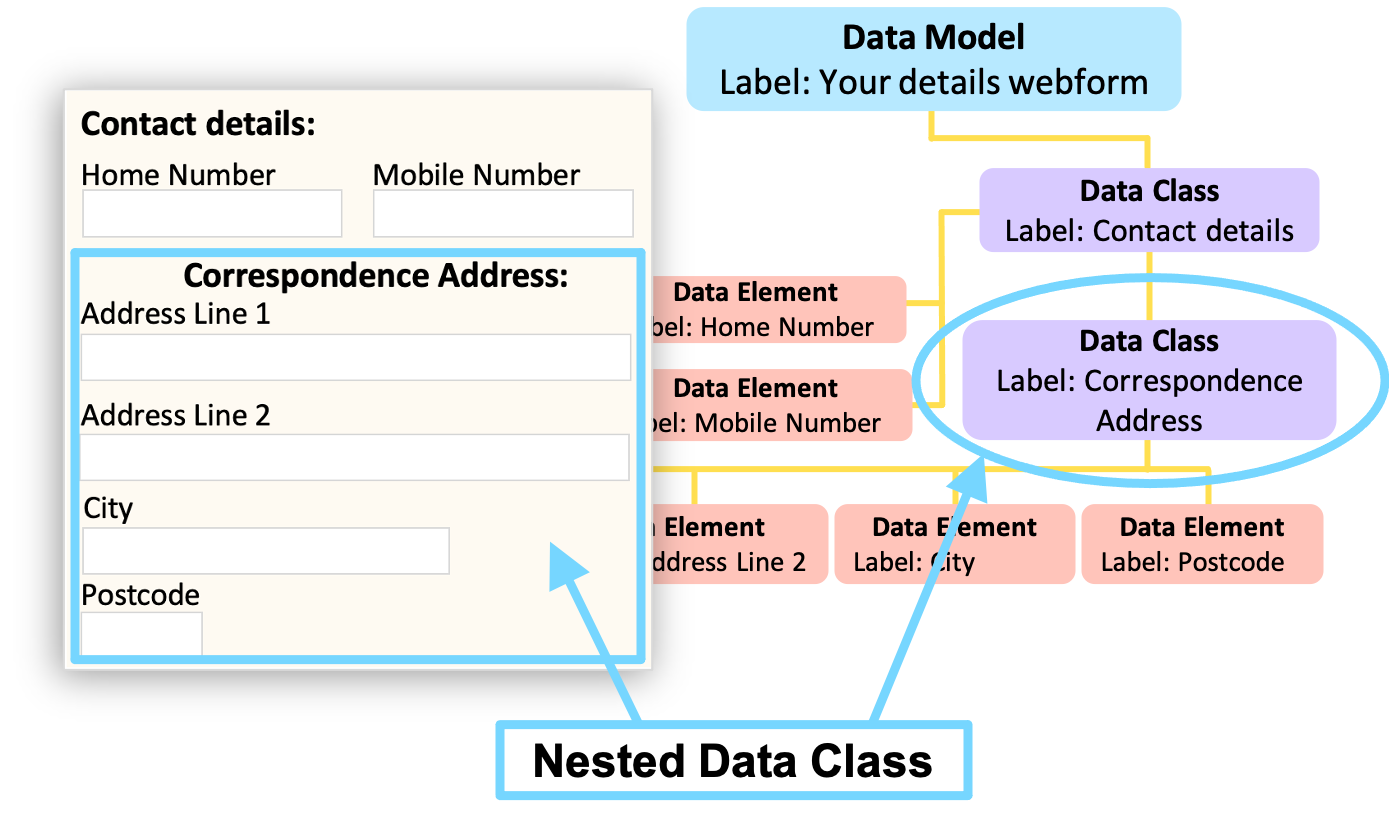
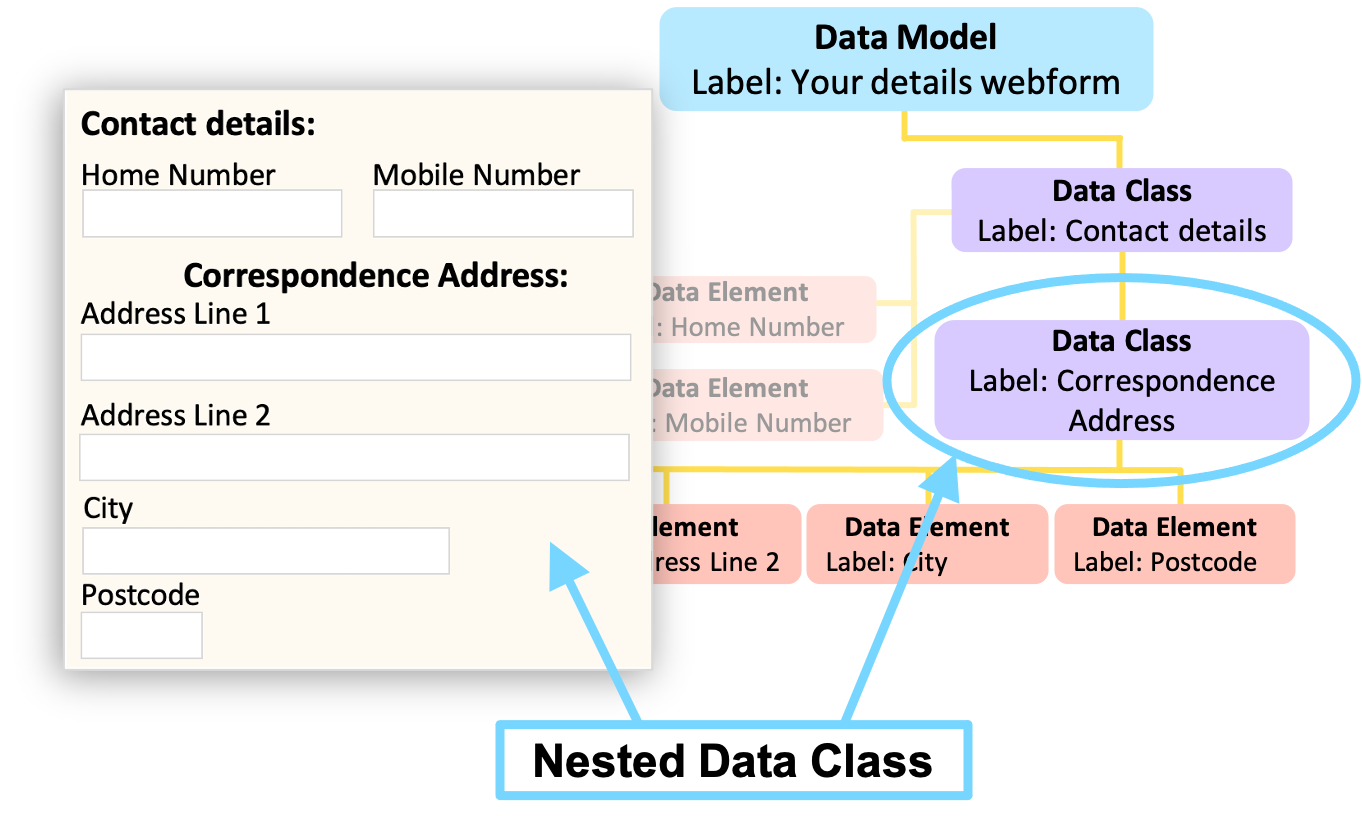
Updated Data Class Glossary page

diff --git a/docs/glossary/data-class/data-class.md b/docs/glossary/data-class/data-class.md
@@ -9,9 +9,9 @@ A **Data Class** is a collection of data, also known as **Data Elements**, that 
 
 You can also have a **Data Class** within a **Data Class**, known as a **Nested Data Class**, which can be a useful way of managing complex sets of data. There is no limit on the number of **Nested Data Classes** you can include. 
 
-For example, in a webform, there may be a section called **'Contact details'**, which would be one **Data Class**. Within that section however, there may be another labelled **'Correspondance Address'**, which would be a **Nested Data Class**.  
+For example, in a webform, there may be a section called **'Contact details'**, which would be one **Data Class**. Within that section however, there may be another labelled **'Correspondence Address'**, which would be a **Nested Data Class**.  
 
-![Nested Data Class in a webform and a Data Model flowchart](nested-data-class.png)
+![A Nested Data Class example illustrated in a webform and a Data Model](nested-data-class.png)
 
 
 Each **Data Class** has a:
@@ -19,14 +19,14 @@ Each **Data Class** has a:
 * **[Label](../label/label.md)**  
 	This is the name of the **Data Class** which has to be unique within the **[Data Model](../data-model/data-model.md)** or parent **Data Class**.
 
-* **Aliases**  
+* **[Aliases](../aliases/aliases.md)**  
 	Alternative names that can help locate the **Data Class** when searched for.
 
 * **Description**  
-	A textual definition which explains the types of data items that are grouped together within the **Data Class**, as well as any contextual details.
+	A definition either written in html or plain text which explains the types of data items that are grouped together within the **Data Class**, as well as any contextual details.
 	
-* **Parent**  
-	This can either be the **[Data Model](../data-model/data-model.md)** itself, in which case it is described as a ‘top level data class’. Or, if it is a **Nested Data Class**, its parent **Data Class**.
+* **Parent Hierarchy**  
+	The **Parent** of a **Data Class** can either be the **[Data Model](../data-model/data-model.md)** itself, in which case it is described as a ‘top level data class’. Or, if it is a **Nested Data Class**, its parent **Data Class**.
 	
 * **Multiplicity**  
 	This specifies the minimum and maximum number of times the **Data Class** appears within its parent. Optional data may have a minimum **Multiplicity** of 0 and a maximum of 1, whereas mandatory data has a minimum **Multiplicity** of 1. Data which occurs any number of times is given by a **Multiplicity** of ‘*’ which represents ‘-1’ internally.
@@ -34,10 +34,10 @@ Each **Data Class** has a:
 * **Classifications**  
 	These are effectively tags that you can apply to the **Data Class**. 
 
-The above are all shown on the left hand side of the details panel, when the **Data Class** is selected in the **Model Tree**.
+The above are all shown within the details panel, when the **Data Class** is selected in the **Model Tree**.
 
 
-![Data Class details](data-class-details.png)
+![Data Class details panel](data-class-details.png)
 
 
 Other characteristics are displayed in the tabs underneath the details panel, when the **Data Class** is selected in the **Model Tree**.
